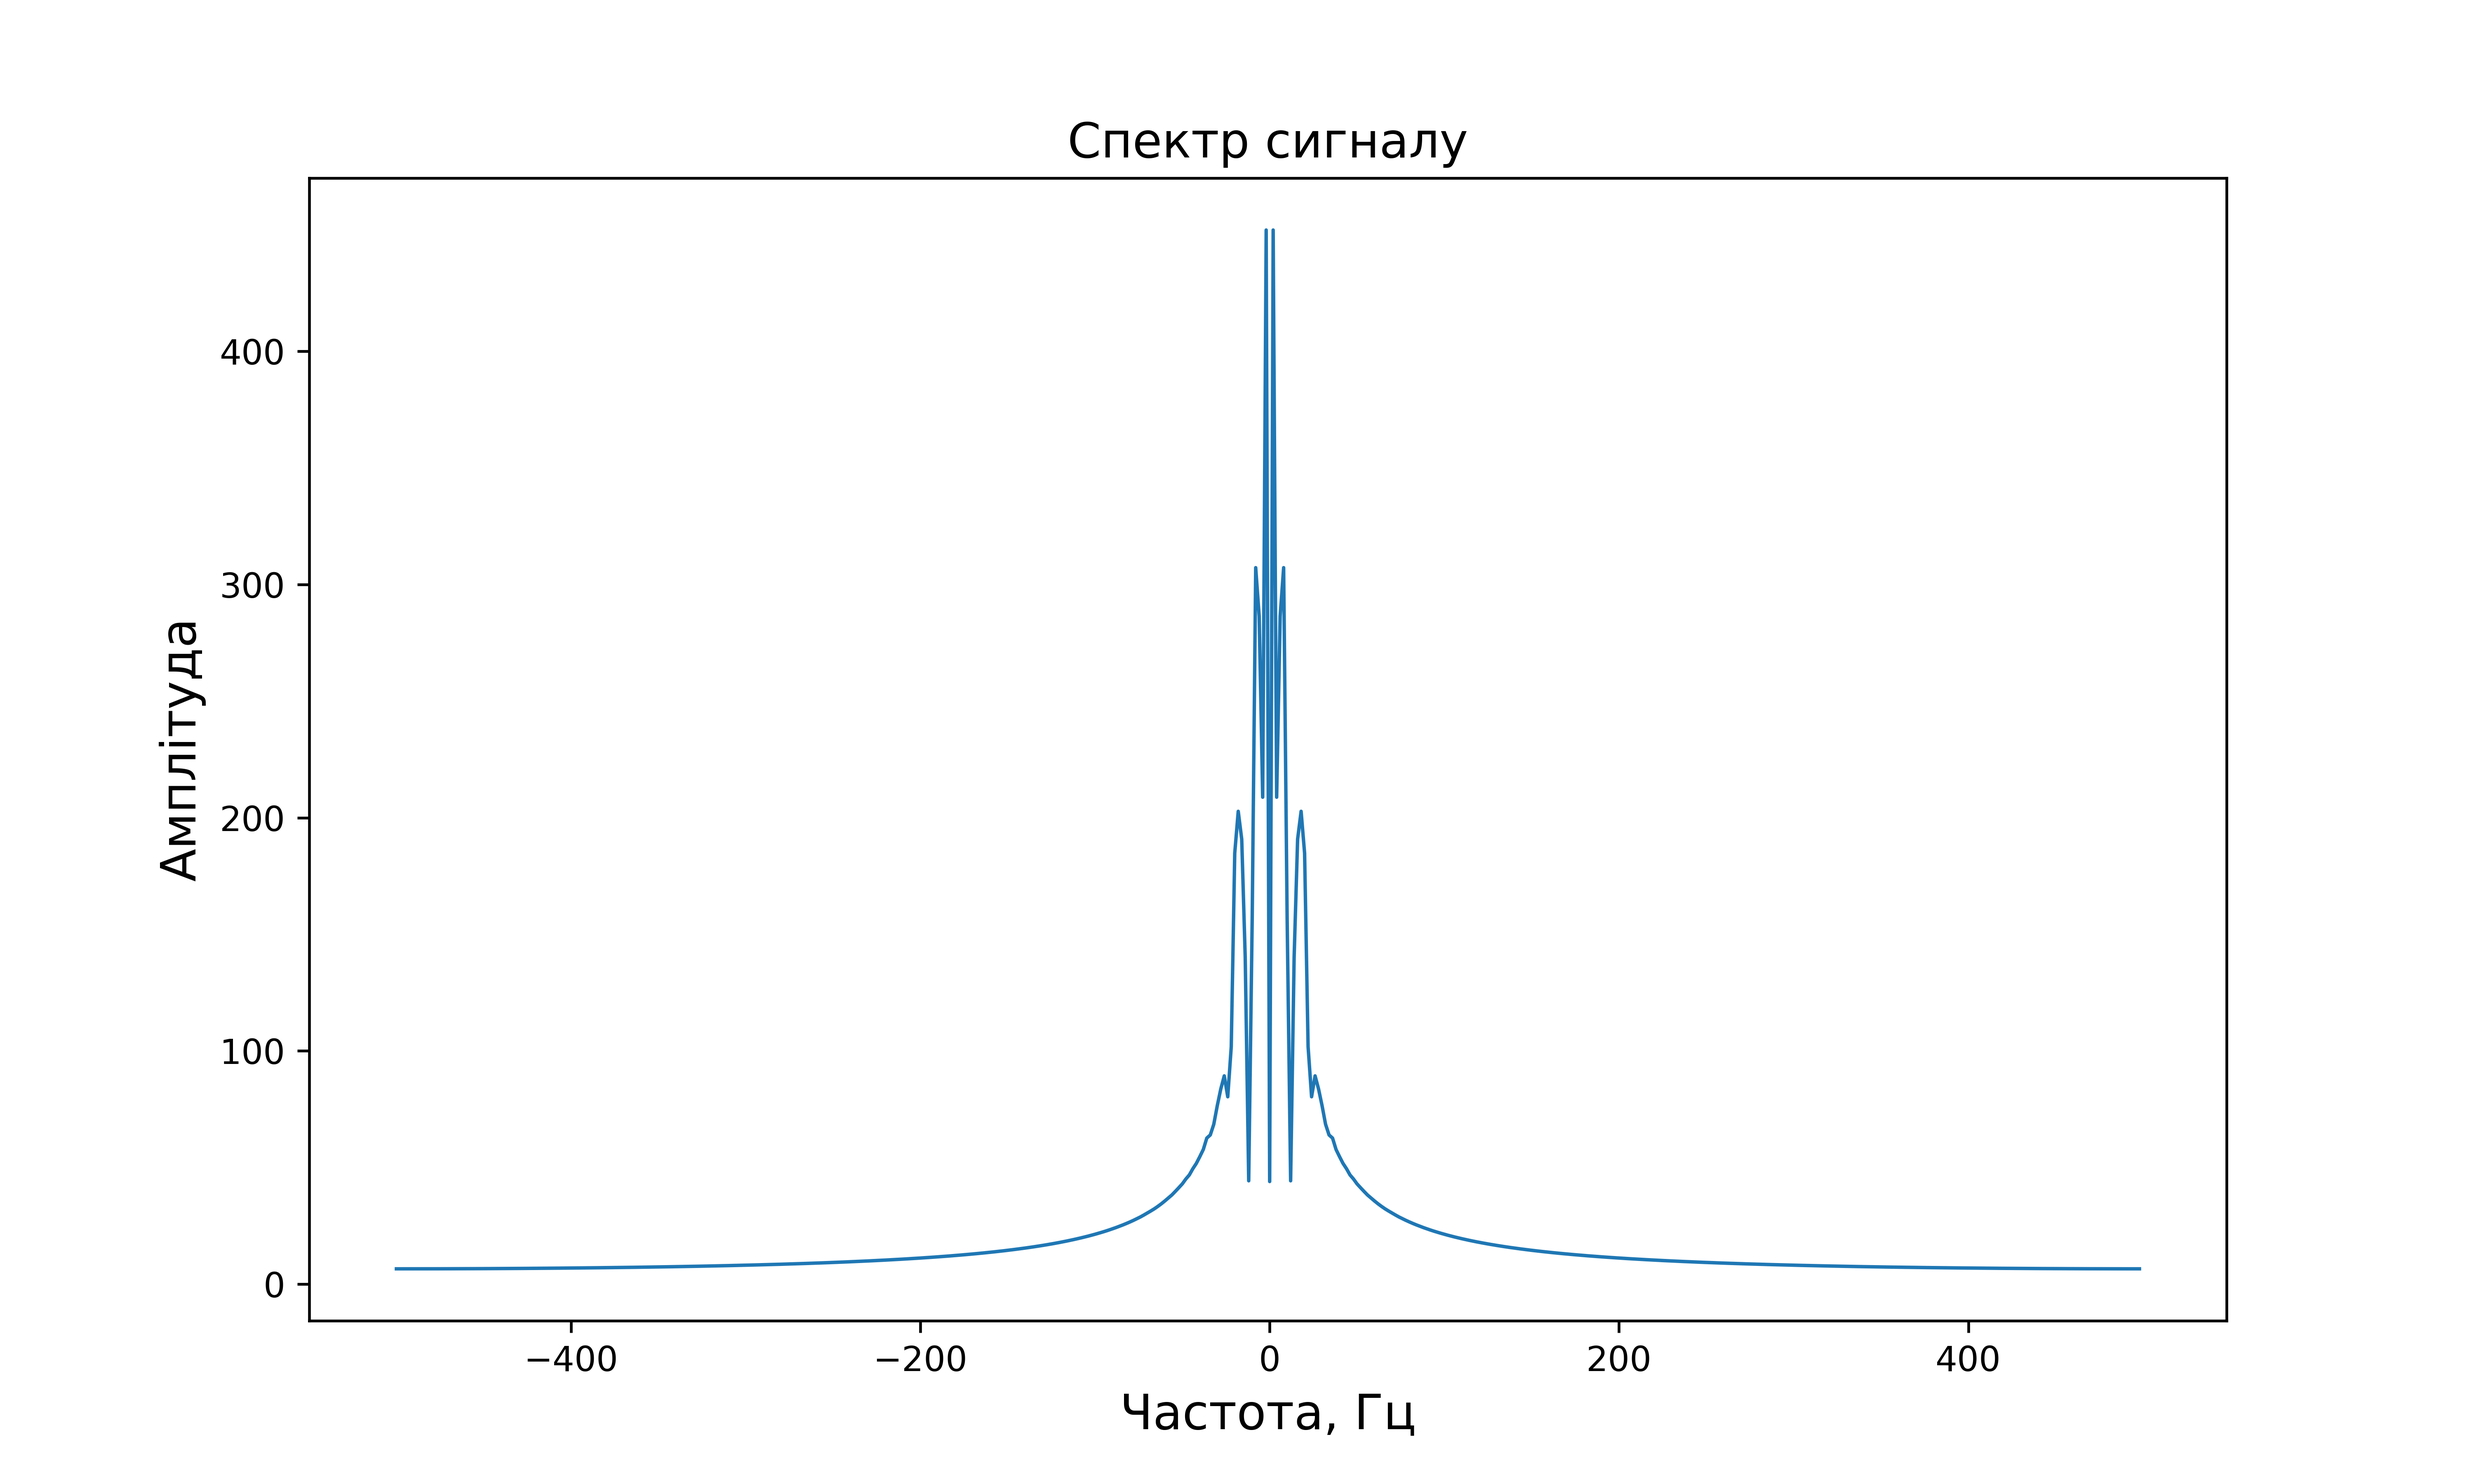
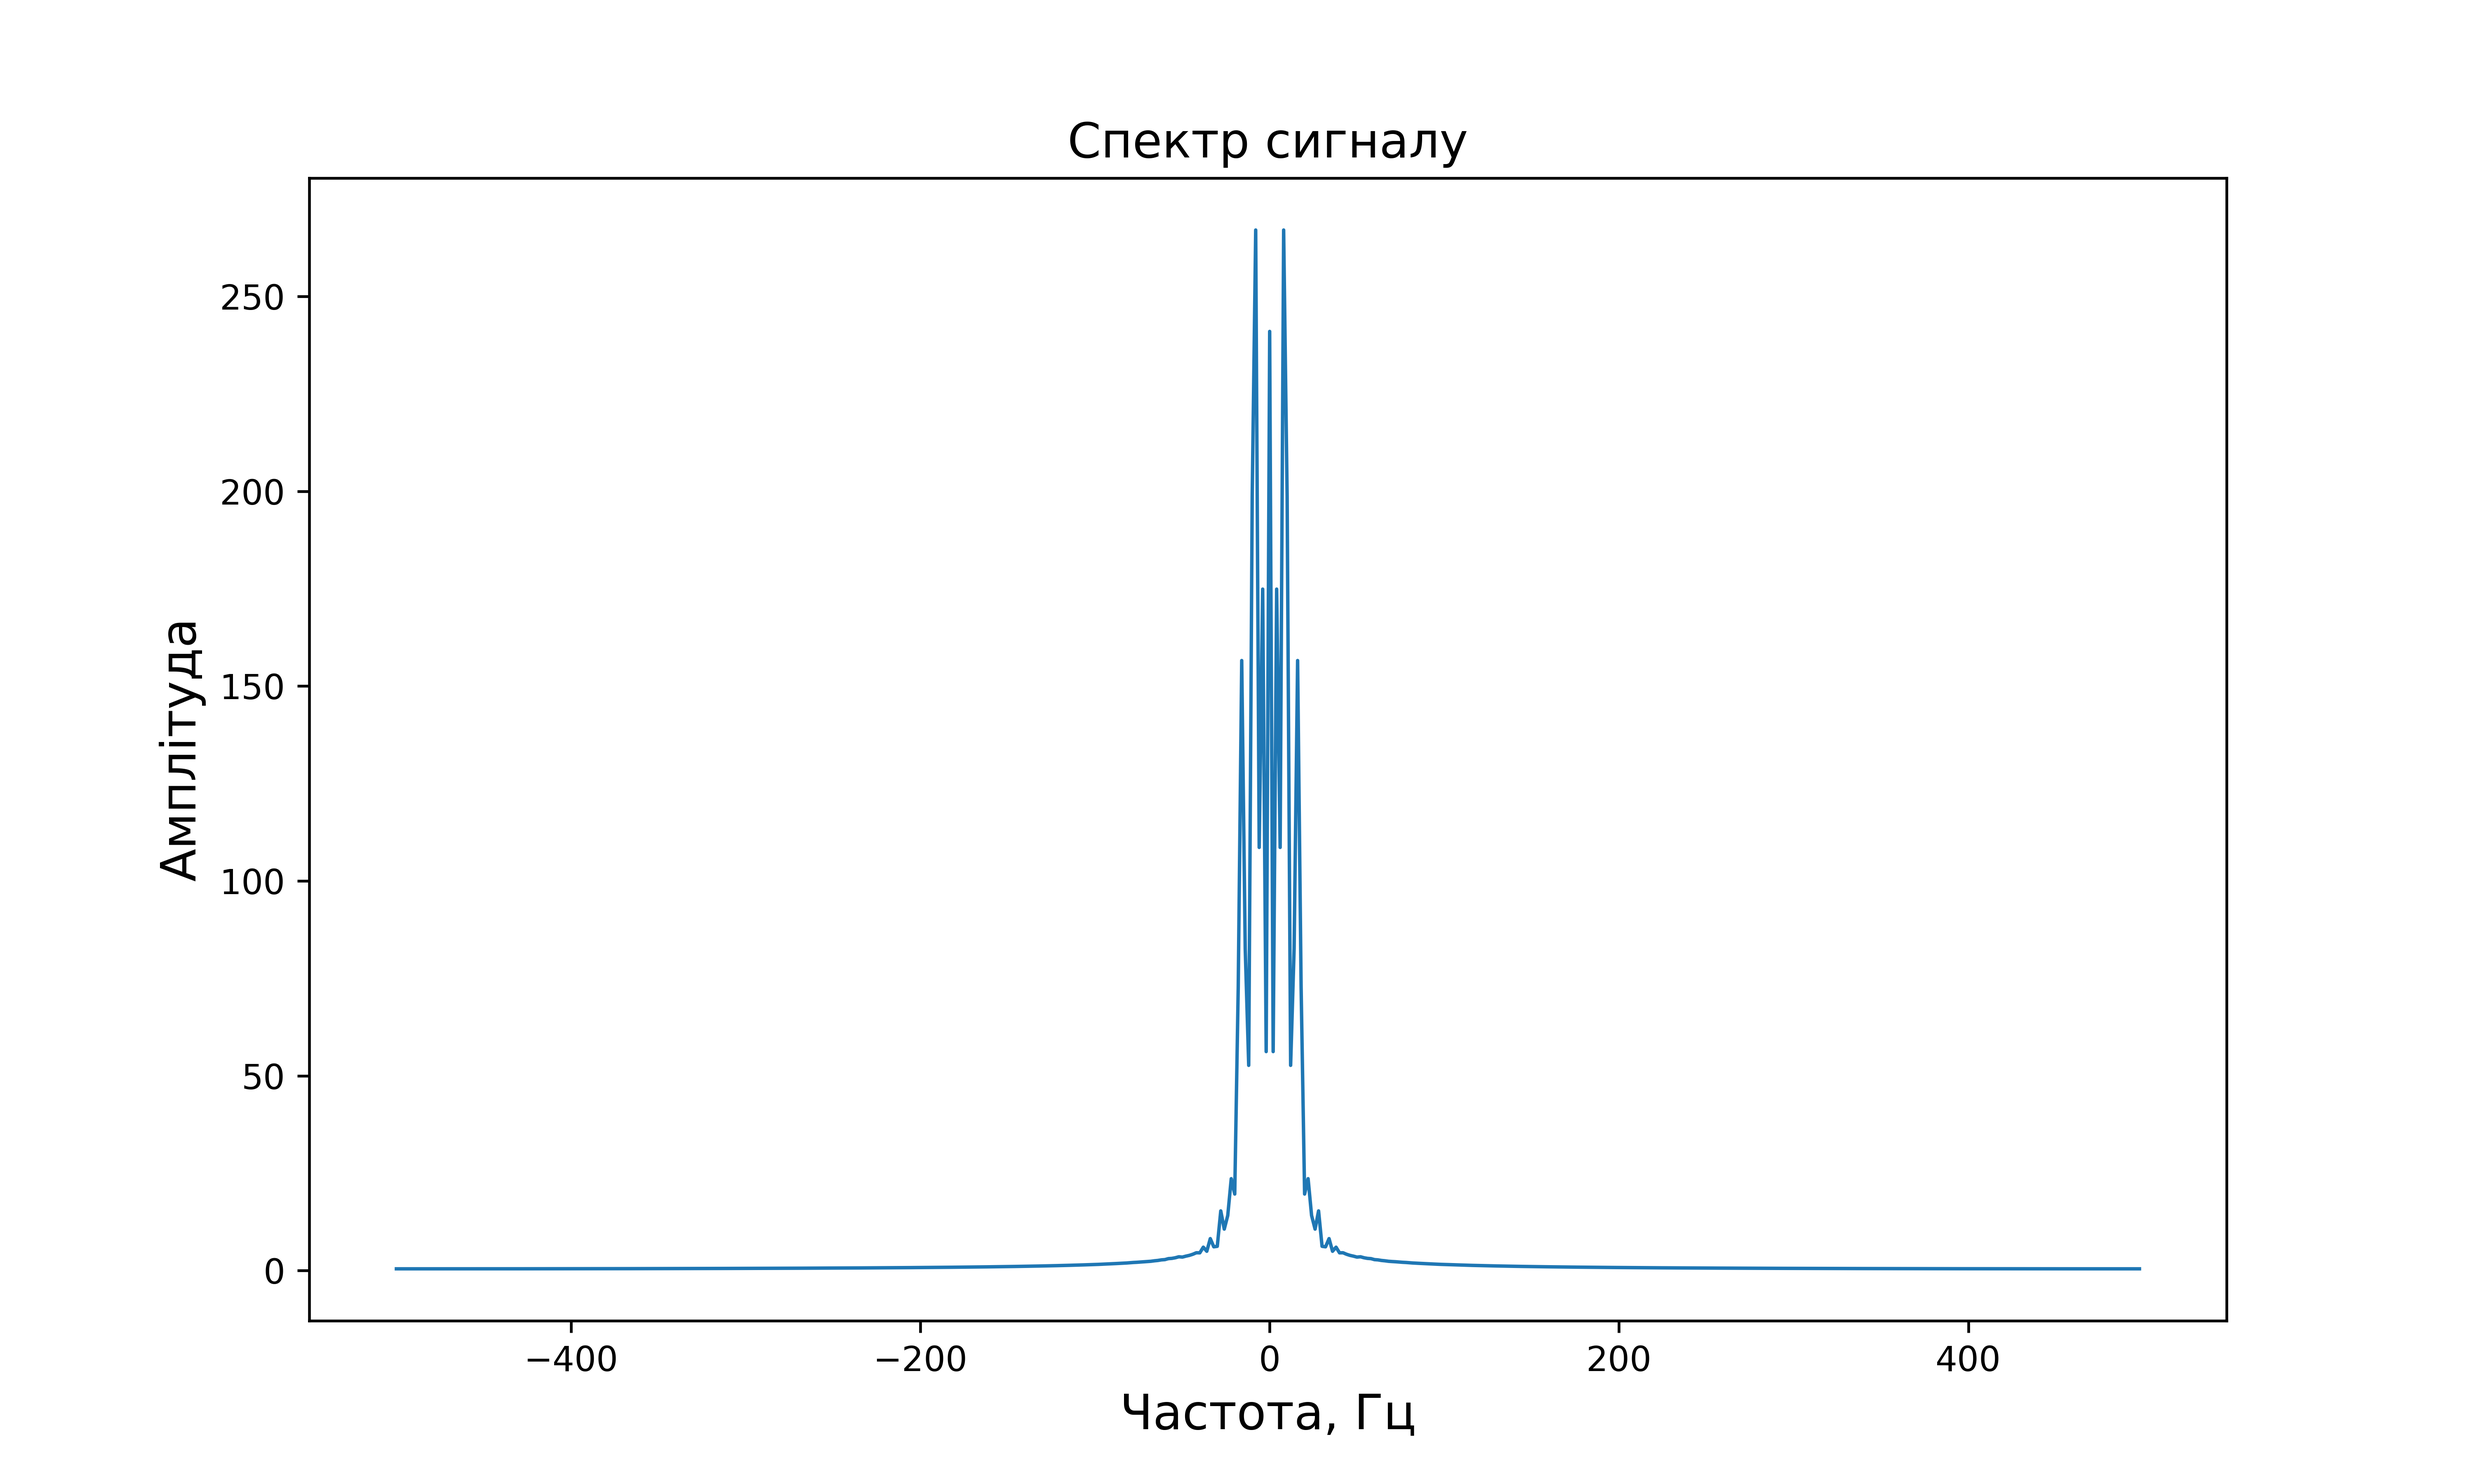
signal completed

diff --git a/SignalProcessing/pract2.py b/SignalProcessing/pract2.py
@@ -1,33 +1,29 @@
 import numpy as np
 import matplotlib.pyplot as plt
 from scipy import signal
-# Nazarov O.I 529
+
 # Вхідні параметри
-n = 500  # Довжина сигналу у відліках
-Fs = 1000  # Частота дискретизації (Гц)
-F_max = 15  # Максимальна частота сигналу (Гц)
+n = 500
+Fs = 1000
+F_max = 15
 
 # Генерація випадкового сигналу
 random_signal = np.random.normal(0, 10, n)
 
 # Визначення відліків часу
-time = np.arange(n) / Fs
-
-# Розрахунок параметрів фільтру
-cutoff_freq = F_max / (Fs / 2)  # Визначення частоти відсіву
-filter_order = 3  # Порядок фільтру
-sos = signal.butter(filter_order, cutoff_freq, 'low', output='sos')  # Розрахунок коефіцієнтів фільтру
+time = np.linspace(0, n / Fs, n)
 
 # Фільтрація сигналу
-filtered_signal = signal.sosfiltfilt(sos, random_signal)
+b, a = signal.butter(3, F_max / (Fs / 2), 'low')
+filtered_signal = signal.filtfilt(b, a, random_signal)
 
 # Побудова графіку сигналу
-fig, ax = plt.subplots(figsize=(10, 6))
-ax.plot(time, filtered_signal, linewidth=1)
-ax.set_xlabel('Час, с', fontsize=14)
-ax.set_ylabel('Амплітуда', fontsize=14)
+plt.figure(figsize=(10, 6))
+plt.plot(time, filtered_signal, linewidth=1)
+plt.xlabel('Час, с', fontsize=14)
+plt.ylabel('Амплітуда', fontsize=14)
 plt.title('Фільтрований сигнал', fontsize=14)
-plt.savefig('./figures/filtered_signal.png', dpi=600)  # Збереження графіку
+plt.savefig('./figures/filtered_signal.png', dpi=600)
 plt.show()
 
 # Розрахунок спектру сигналу
@@ -37,12 +33,11 @@ freq = np.fft.fftfreq(n, 1/Fs)
 freq = np.fft.fftshift(freq)
 
 # Побудова графіку спектру
-fig, ax = plt.subplots(figsize=(10, 6))
-ax.plot(freq, spectrum, linewidth=1)
-ax.set_xlabel('Частота, Гц', fontsize=14)
-ax.set_ylabel('Амплітуда', fontsize=14)
+plt.figure(figsize=(10, 6))
+plt.plot(freq, spectrum, linewidth=1)
+plt.xlabel('Частота, Гц', fontsize=14)
+plt.ylabel('Амплітуда', fontsize=14)
 plt.title('Спектр сигналу', fontsize=14)
-plt.savefig('./figures/signal_spectrum.png', dpi=600)  # Збереження графіку
+plt.savefig('./figures/signal_spectrum.png', dpi=600)
 plt.show()
-
-#...
+#кінець коду
